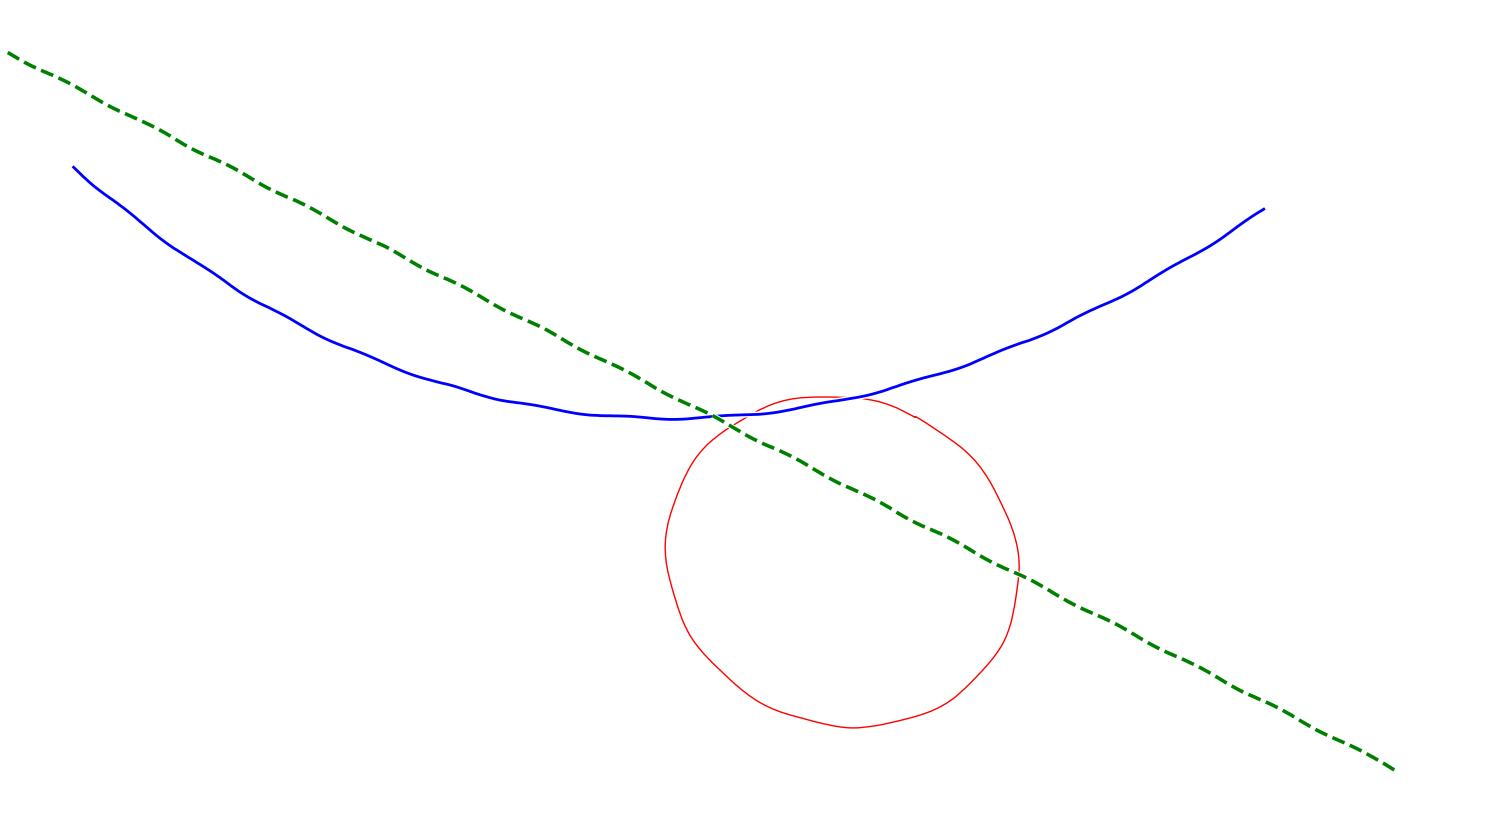
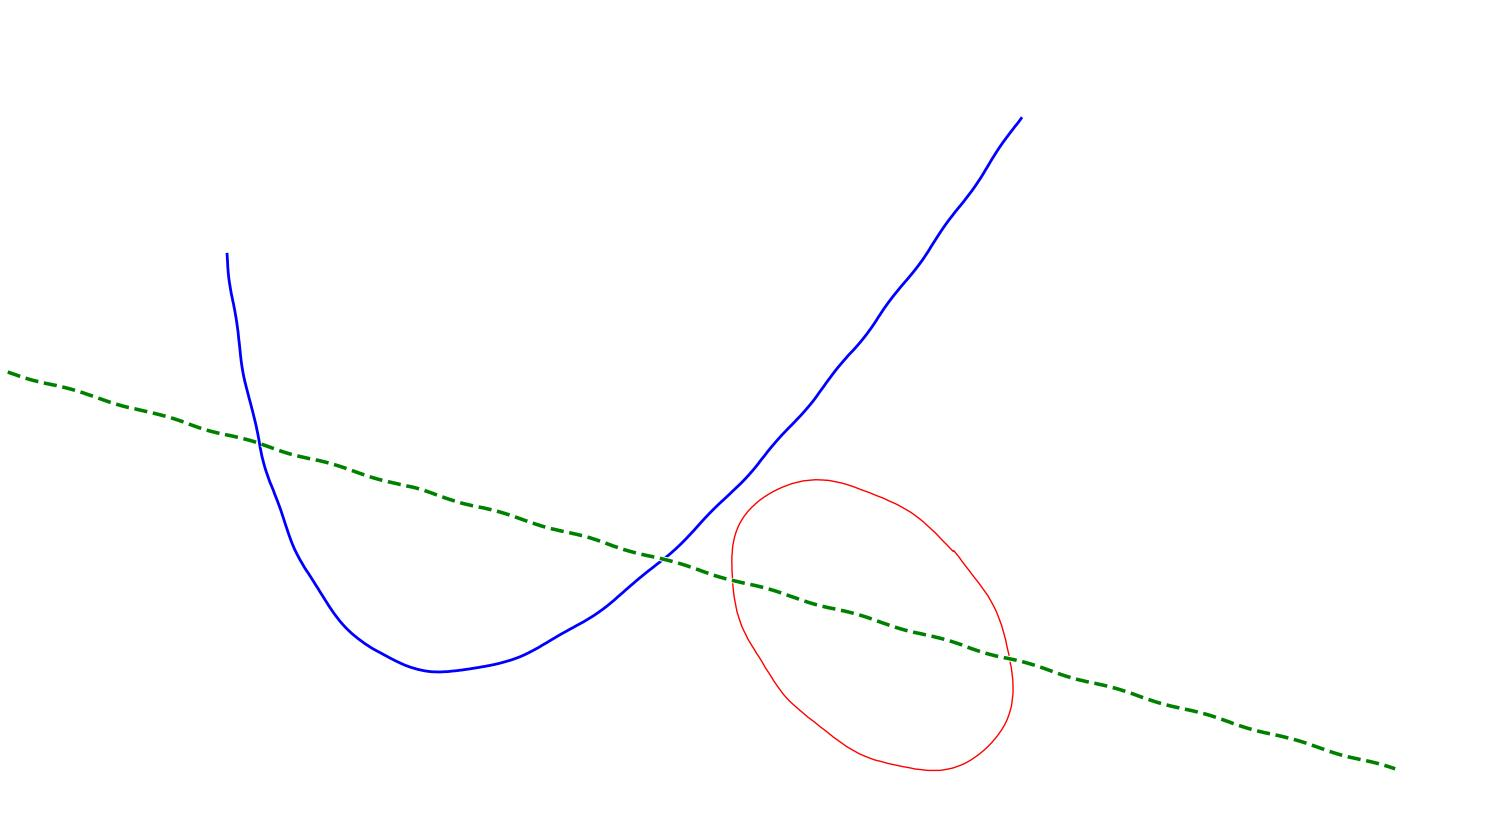
u

diff --git a/gshapes/src/drafts/synthetic_image_reuse.py b/gshapes/src/drafts/synthetic_image_reuse.py
@@ -1,0 +1,195 @@
+import os
+import random
+import time
+from typing import Tuple, Union  # Added for type hints
+
+from multiprocessing import Pool
+
+import numpy as np
+
+import matplotlib
+# Use a non-interactive backend (safer/faster in workers). Set this before importing pyplot
+# must be before importing pyplot OR set env var MPLBACKEND=Agg
+matplotlib.use("Agg")  
+import matplotlib.pyplot as plt
+from matplotlib.patches import Ellipse
+from matplotlib.figure import Figure
+from matplotlib.axes import Axes
+from scipy.interpolate import splprep, splev
+
+# Type alias for file paths
+PathLike = Union[str, os.PathLike]
+
+
+fig: Figure = None
+ax: Axes = None
+
+    
+def init_worker():
+    """
+    Initializer function for each worker process.
+    Creates one persistent Figure and Axes.
+    Per-process randomness to avoid identical draws, seed in each worker via an initializer
+    """
+    global fig, ax
+    
+    random.seed(os.getpid() ^ int(time.time()))
+    np.random.seed((os.getpid() * 2654435761) % 2**32)
+
+    print(f"Worker PID {os.getpid()}: Initializing Figure...")
+    
+    # --- Settings ---
+    # 1. Calculate DPI for the correct pixel output
+    # Matplotlib works in inches, so we need to convert pixels
+    dpi = 100 
+    img_width = 1920 / dpi
+    img_height = 1080 / dpi
+
+    # --- Create persistent objects ---
+    # We make it 'frameon=False' to remove borders
+    fig, ax = plt.subplots(figsize=(img_width, img_height), frameon=False)
+
+
+def generate_synthetic_image(output_filepath: PathLike) -> PathLike:
+    """
+    Generates a single synthetic, 'hand-drawn' image using Matplotlib
+    and saves it to a file.
+    """
+    global fig, ax # Access this worker's persistent objects
+
+    dpi = 100 
+    try:
+        # 1. CRITICAL: Clear the last drawing
+        ax.cla() 
+            
+        # --- Configure persistent axes (do this only once) ---
+        # 4. Configure the canvas
+        # Set limits to match pixel dimensions
+        ax.set_xlim(0, 1920)
+        ax.set_ylim(0, 1080)
+        # Invert Y-axis to match image (0,0 at top-left)
+        ax.invert_yaxis() 
+        # Turn off the axis lines and labels completely
+        ax.axis('off') 
+
+        # 2. Use the 'xkcd' style context manager
+        # This is the magic! All lines drawn inside this block
+        # will be 'imperfect'.
+        with plt.xkcd():        
+            # 5. Draw your shapes!
+            # Matplotlib's high-level functions make this easy.
+            
+            # Example 1: A "hand-drawn" wobbly spline
+            pts: np.ndarray = np.array([
+                [random.randint(0, 400), random.randint(0, 400)],
+                [random.randint(400, 800), random.randint(500, 900)],
+                [random.randint(900, 1800), random.randint(100, 500)]
+            ])
+            # Ensure m > k holds: number of points > spline degree
+            m = len(pts)
+            # Degree must be < number of points
+            k = min(3, len(pts) - 1)        
+            
+            x_new: np.ndarray
+            y_new: np.ndarray
+            if m > k:
+                # tck: tuple (knots, coefficients, degree)
+                # u: parameter values
+                tck: tuple
+                u: np.ndarray
+                tck, u = splprep([pts[:, 0], pts[:, 1]], s=0, k=k)
+                x_new, y_new = splev(np.linspace(0, 1, 100), tck)
+            else:
+                # fallback to straight line if not enough points
+                x_new, y_new = (pts[:, 0], pts[:, 1])
+    
+            ax.plot(x_new, y_new, 'b-') # 'b-' is a blue line
+    
+            # Example 2: A "hand-drawn" imperfect oval
+            oval: Ellipse = Ellipse(
+                xy=(random.randint(800, 1200), random.randint(600, 900)), 
+                width=random.randint(100, 500), 
+                height=random.randint(100, 500),
+                angle=random.uniform(0, 90),
+                edgecolor='r', 
+                facecolor='none'
+            )
+            ax.add_patch(oval)
+    
+            # Example 3: A "hand-drawn" dashed line
+            ax.plot(
+                [10, 1800],                              # x1, x2
+                [random.randint(10, 1000), 1000],       # y1, y2
+                'g--',                                   # 'g--' is a green dashed line
+                linewidth=random.uniform(1, 3)
+            )
+    
+            # 6. Save the final image
+            # 'bbox_inches' and 'pad_inches' are critical to remove
+            # all whitespace and padding around the image.
+            fig.savefig(
+                output_filepath, 
+                dpi=dpi,
+                format='jpg',
+                bbox_inches='tight', 
+                pad_inches=0
+            )
+            
+        return output_filepath, None
+    
+    except Exception as e:
+        return None, e
+
+
+def main():
+    # --- Configuration ---
+    BATCH_SIZE = 90
+    OUTPUT_DIR = "./synth_images_prototype"
+    
+    # Use 75% of CPU cores, as you specified
+    num_cores = max(1, int(os.cpu_count() * 0.75))
+    print(f"Starting prototype generation...")
+    print(f"Batch Size: {BATCH_SIZE}")
+    print(f"Output Dir: {OUTPUT_DIR}")
+    print(f"Using {num_cores} parallel processes.")
+    
+    os.makedirs(OUTPUT_DIR, exist_ok=True)
+    
+    # --- Prepare the list of "jobs" ---
+    # We create a list of all the output filepaths we want to generate.
+    # The pool will map our function to this list.
+    # Create the list of filepaths to generate
+    job_filepaths = [
+        os.path.join(OUTPUT_DIR, f"prototype_image_{i:06d}.jpg") 
+        for i in range(BATCH_SIZE)
+    ]
+
+    # --- Run the Parallel Pool ---
+    print(f"Starting pool with {num_cores} persistent workers...")
+    start_time = time.time()
+    
+    # Create the pool of worker processes
+    with Pool(processes=num_cores, initializer=init_worker) as pool:
+        # pool.map will take the list 'job_filepaths' and
+        # automatically feed one to each call of our function,
+        # in parallel.
+        # We use 'chunksize=10' to feed jobs to workers in
+        # chunks, which is more efficient than one-by-one.
+        print("Submitting jobs to pool...")
+        # Map the 'reusing' function to all the jobs
+        for i, (f, err) in enumerate(pool.map(generate_synthetic_image, job_filepaths)):
+            if err:
+                print(f"Job {i} failed: {err}")
+    
+    end_time = time.time()
+    duration = end_time - start_time
+    imgs_per_sec = BATCH_SIZE / duration
+    
+    print("\n--- Generation Complete ---")
+    print(f"Generated {BATCH_SIZE} images in {duration:.2f} seconds.")
+    print(f"Throughput: {imgs_per_sec:.2f} images/sec")
+
+
+if __name__ == "__main__":
+    # This 'if' block is essential for multiprocessing
+    main()
